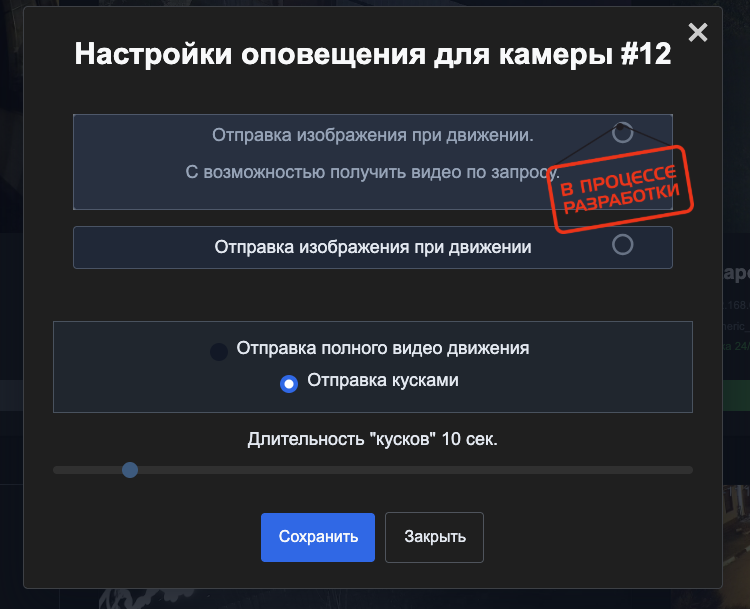
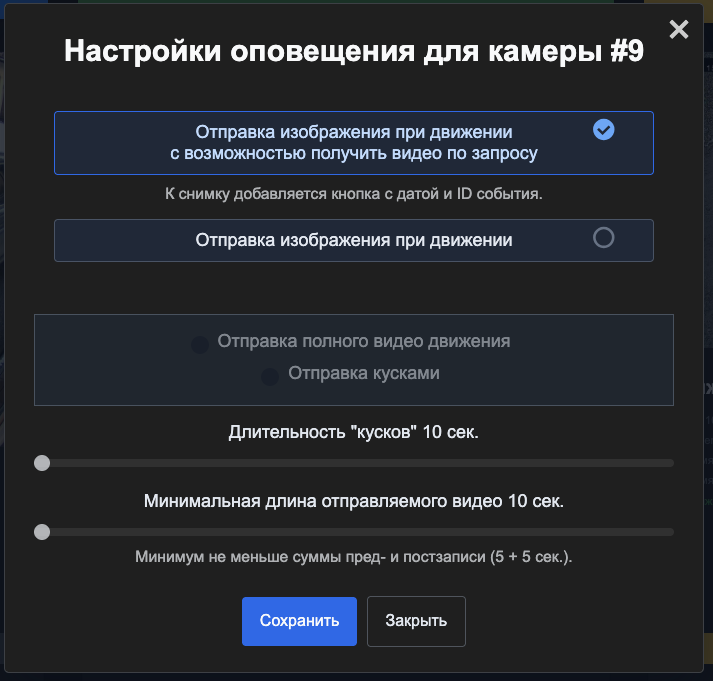
update guid

diff --git a/README_EN.md b/README_EN.md
@@ -1,0 +1,165 @@
+# Warning!
+This project is still unfinished and currently in beta testing. Critical errors may occur during use and will be fixed later.
+
+# SynologySStoTelegram
+Send motion-triggered videos from Synology Surveillance Station to Telegram using Webhooks
+
+[![Donate](https://img.shields.io/badge/donate-Tinkoff-yellow.svg)](https://www.tinkoff.ru/rm/dontsov.sergey22/KEZ6r54259)
+![](https://img.shields.io/github/watchers/Striker72rus/SynologySStoTelegram.svg)
+![](https://img.shields.io/github/stars/Striker72rus/SynologySStoTelegram.svg)
+
+![](https://badgen.net/static/API/Telegram)
+![](https://badgen.net/static/API/Synology%20Surveillance%20Station)
+![](https://badgen.net/static/Made%20with/PHP)
+
+## Table of Contents
+- [Warning!](#warning)
+- [SynologySStoTelegram](#synologysstotelegram)
+  - [Table of Contents](#table-of-contents)
+  - [Preparation](#preparation)
+  - [Installation via docker-compose](#installation-via-docker-compose)
+  - [Installation via Container Manager](#installation-via-container-manager)
+  - [Project configuration](#project-configuration)
+  - [Camera configuration](#camera-configuration)
+  - [Updating the project](#updating-the-project)
+  - [Credits](#credits)
+  - [TODO](#todo)
+  - [Support the project](#support-the-project)
+
+## Preparation
+1. Create a folder via File Station anywhere you like.
+2. Right-click the folder and choose **Properties**.
+3. Note the value in **Location**—you will need it later.
+
+![](/images/1.0.png)
+
+For convenience you can create a dedicated user with the permissions shown below:
+
+![](/images/10.png)
+
+<a id="A2"></a>
+## Installation via docker-compose
+Configuration example:
+```yml
+version: '3.8'
+services:
+    php:
+        image: striker72rus/video-ss-to-tg-php:bets
+        hostname: php
+        restart: on-failure
+        volumes:
+            - '/PATH_TO_DATA:/usr/src/app/data'
+        ports:
+            - '8888:80'
+```
+
+<a id="A3"></a>
+## Installation via Container Manager
+
+Open the project page and click **Create**.
+
+![](/images/1.png)
+1. Enter the project name.
+2. Select the path where `compose.yaml` will be stored (you can reuse the path created earlier for the data).
+3. Source – choose **Create docker-compose.yml**.
+4. Paste the configuration from the [docker-compose installation section](#installation-via-docker-compose) and replace the path with your own.
+5. Once everything looks correct, click **Next**.
+
+![](/images/2.png)
+
+Click **Next** again.
+
+![](/images/3.png)
+
+Review the data and click **Done**. Leave the **Start project after creation** option enabled.
+
+![](/images/4.png)
+
+Wait for the manager to download and install all components.
+
+![](/images/5.png)
+
+When you see this message, the project was installed successfully and you can move on to the [configuration](#project-configuration).
+
+<a id="A4"></a>
+## Project configuration
+
+Open a browser and go to `http://<synology-ip>:<port>` (default port is `8888`).
+Example:
+```
+http://192.168.1.2:8888
+```
+
+A registration page will open if no data exists yet.
+
+![](/images/6.png)
+
+After registering, sign in to the application to see the settings page:
+
+![](/images/6.1.png)
+
+- **Telegram settings**
+  * Enter the token from BotFather.
+  * Enter the chat ID where notifications should be sent.
+  * Click **Save**.
+  * Click **Test**. A test message should arrive in the chat—if it does, Telegram is configured correctly.
+
+- **Synology settings**<br>
+  Provide the following:
+  * Synology IP address
+  * Web interface port
+  * Login
+  * Password
+  * OTP (if applicable). Creating a dedicated user, as described in the [preparation](#preparation) section, is recommended.
+
+<a id="A5"></a>
+## Camera configuration
+At first launch click **Refresh list** to retrieve the list of cameras.
+
+![](/images/7.png)
+
+After refreshing, they will appear in the interface.<br>
+Only cameras recording 24/7 or on event are supported. **Hybrid recording is not supported.**
+
+![](/images/8.png)
+
+From here you can create a rule that intercepts events by clicking **Create rule**.<br>
+You can reopen the configuration window later with the **Configure** button.
+
+![](/images/9.png)
+
+Configure how notifications are delivered:
+- **Send snapshot on motion** – once a webhook arrives, the system takes a picture from the camera and sends it.
+- **Send full motion video** – the system waits for the motion to end and sends the full video.
+- **Send in chunks** – the system sends 15-second video fragments for as long as motion is detected.
+
+These options can be combined.
+
+<a id="A6"></a>
+## Updating the project
+
+Updates can be installed directly from the interface.
+Go to the **Update** tab.
+If an update is available, you will see the **Update to the latest version** button.
+
+A short changelog is also displayed here.
+
+![](/images/11.png)
+
+After starting the update process, the system will download and install everything automatically.
+Depending on your internet speed, the update may take from 1 to 5 minutes.
+
+<a id="B6"></a>
+## Credits
+Thanks to [samoswall](https://github.com/samoswall) for the idea.
+
+<a id="B7"></a>
+## TODO
+- [x] Make video fragment duration configurable.
+
+<a id="A9"></a>
+## Support the project
+
+[![Donate](https://img.shields.io/badge/donate-Tinkoff-yellow.svg)](https://www.tinkoff.ru/rm/dontsov.sergey22/KEZ6r54259)
+
+Please mention the project name in the message. Thank you!

diff --git a/README.md b/README.md
@@ -3,6 +3,8 @@
 
 
 # SynologySStoTelegram
+English version: [README_EN.md](README_EN.md)
+
 Отправка видео по детектору движения Synology Surveillance Station в Telegram используя Webhook
 
 [![Donate](https://img.shields.io/badge/donate-Tinkoff-yellow.svg)](https://www.tinkoff.ru/rm/dontsov.sergey22/KEZ6r54259)
@@ -95,6 +97,8 @@ http://192.168.1.2:8888
 После регистрации входим в приложение и видим страницу натсроек:
 
 ![](/images/6.1.png)
+![](/images/6.2.png)
+![](/images/6.3.png)
 
 
 - Telegram settings
@@ -102,6 +106,8 @@ http://192.168.1.2:8888
   * Вводим id чата, куда присылать уведомления.
   * Нажимаем сохранить.
   * Нажимаем тест, в чат придёт тестовое сообщение, если его получили - значит телеграм настроен верно.
+
+  Так же можно заменить стандартный текст уведомлений.
    
 - Synology settings<br>
   Необходимо ввести:
@@ -109,7 +115,7 @@ http://192.168.1.2:8888
   * Порт веб интерфейса
   * Логин
   * Пароль
-  * OTP, если он есть. Но лучше использовать отдельного пользователя, как указано в разделе <a id="A1">подготовка</a>
+  * OTP, если он есть. Но лучше использовать отдельного пользователя, как указано в разделе <a id="A1">подготовка</a> чтобы избежать протухание токена и дальнейшего ввода OTP снова.
 
 <a id="A5"></a>
 ## Настройка камер
@@ -156,6 +162,7 @@ http://192.168.1.2:8888
 <a id="B7"></a>
 ## TODO
 - [x] Сделать длительность видеофрагментов настраиваемыми. 
+- [x] Сделать логику отправки фото с кнопкой для получения видео.
 
 <a id="A9"></a>
 ## Поддержать проект
